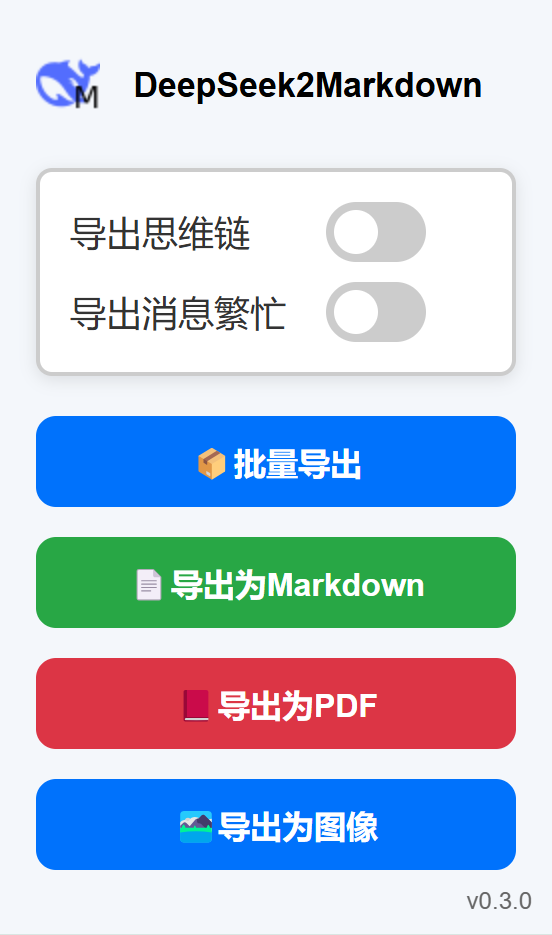
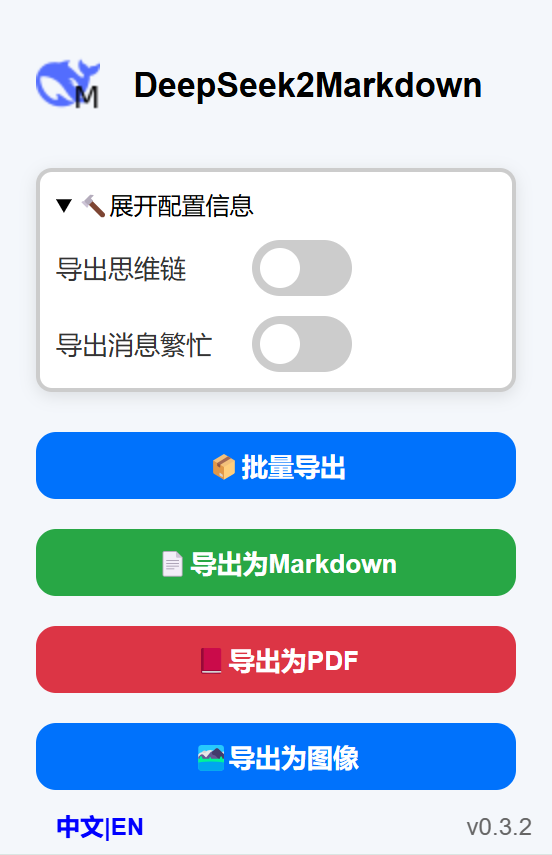
v0.3.2: adjust popup interface

diff --git a/src/popup.html b/src/popup.html
@@ -12,22 +12,25 @@
         <h1>DeepSeek2Markdown</h1>
     </div>
     <div class="switch-container">
-        <div class="switch-box">
-            <div class="switch-option">
-                <span>导出思维链</span>
-                <label class="switch">
-                    <input type="checkbox" id="exportChainOfThought">
-                    <div class="slider round"></div>
-                </label>
+        <details style="cursor: pointer;">
+            <summary>🔨展开配置信息</summary>
+            <div class="switch-box">
+                <div class="switch-option">
+                    <span>导出思维链</span>
+                    <label class="switch">
+                        <input type="checkbox" id="exportChainOfThought">
+                        <div class="slider round"></div>
+                    </label>
+                </div>
+                <div class="switch-option">
+                    <span>导出消息繁忙</span>
+                    <label class="switch">
+                        <input type="checkbox" id="blockBusyMessages">
+                        <div class="slider round"></div>
+                    </label>
+                </div>
             </div>
-            <div class="switch-option">
-                <span>导出消息繁忙</span>
-                <label class="switch">
-                    <input type="checkbox" id="blockBusyMessages">
-                    <div class="slider round"></div>
-                </label>
-            </div>
-        </div>
+        </details>
     </div>
     <button id="exportBatch">📦批量导出</button>
     <button id="exportAsMarkdown">📄导出为Markdown</button>
@@ -35,7 +38,7 @@
     <button id="exportAsImage">🏞导出为图像</button>
     <div class="footer">
         <button id="languageToggle">中文|EN</button>
-        <span>v0.3.1</span>
+        <span>v0.3.2</span>
     </div>
     <script src="popup.js"></script>
 </body>

diff --git a/src/popup.js b/src/popup.js
@@ -84,6 +84,7 @@ chrome.runtime.onInstalled.addListener((details) => {
 // 语言配置
 const translations = {
     zh: {
+        summary: "🔨展开配置信息",
         exportChainOfThought: "导出思维链",
         blockBusyMessages: "导出消息繁忙",
         exportBatch: "📦批量导出",
@@ -93,6 +94,7 @@ const translations = {
         languageToggle: "中文|EN"
     },
     en: {
+        summary: "🔨Expand Configuration Information",
         exportChainOfThought: "Export Chain of Thought",
         blockBusyMessages: "Export Busy Messages",
         exportBatch: "📦Batch Export",
@@ -110,6 +112,7 @@ let currentLang = 'zh';
 function updateLanguage(lang) {
     currentLang = lang;
     // 更新所有文本内容
+    document.querySelector('summary').textContent = translations[lang].summary;
     document.querySelector('.switch-option:nth-child(1) span').textContent = translations[lang].exportChainOfThought;
     document.querySelector('.switch-option:nth-child(2) span').textContent = translations[lang].blockBusyMessages;
     document.getElementById('exportBatch').textContent = translations[lang].exportBatch;

diff --git a/src/style.css b/src/style.css
@@ -64,16 +64,15 @@ button:hover {
     flex-direction: column;
     gap: 10px;
     width: 100%;
+    padding-top: 10px;
 }
 
 .switch-option {
     display: flex;
     align-items: center;
     justify-content: space-between;
-    /* 使label位于父元素右对齐 */
     gap: 10px;
     width: 100%;
-    /* 确保子元素可以在父元素内两端对齐 */
 }
 
 .switch-option span {
